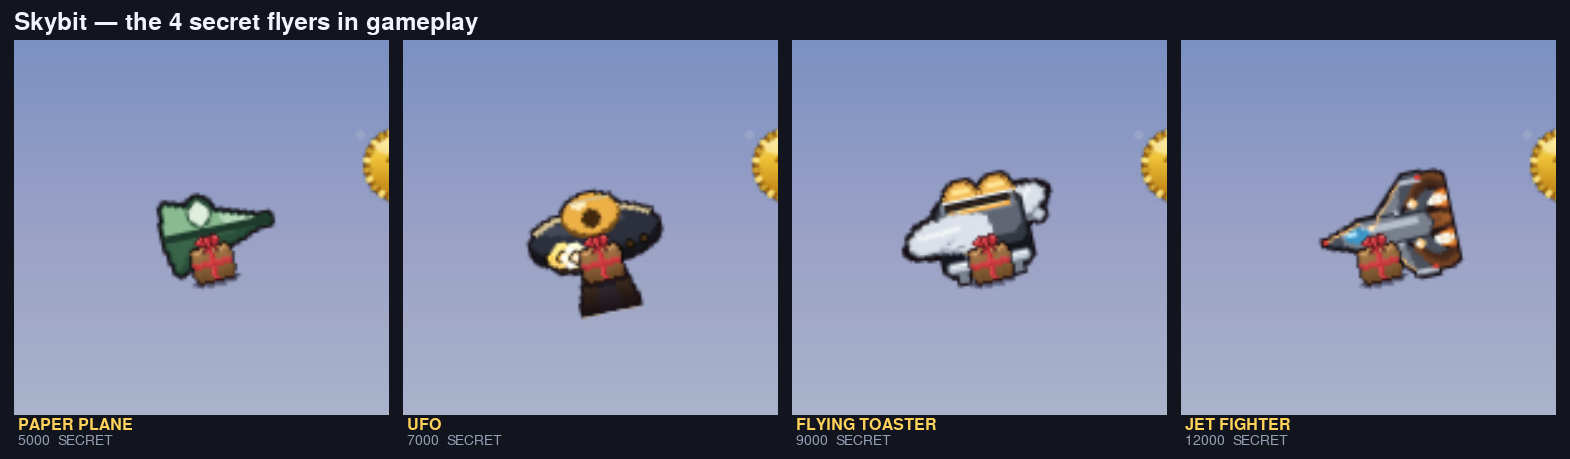
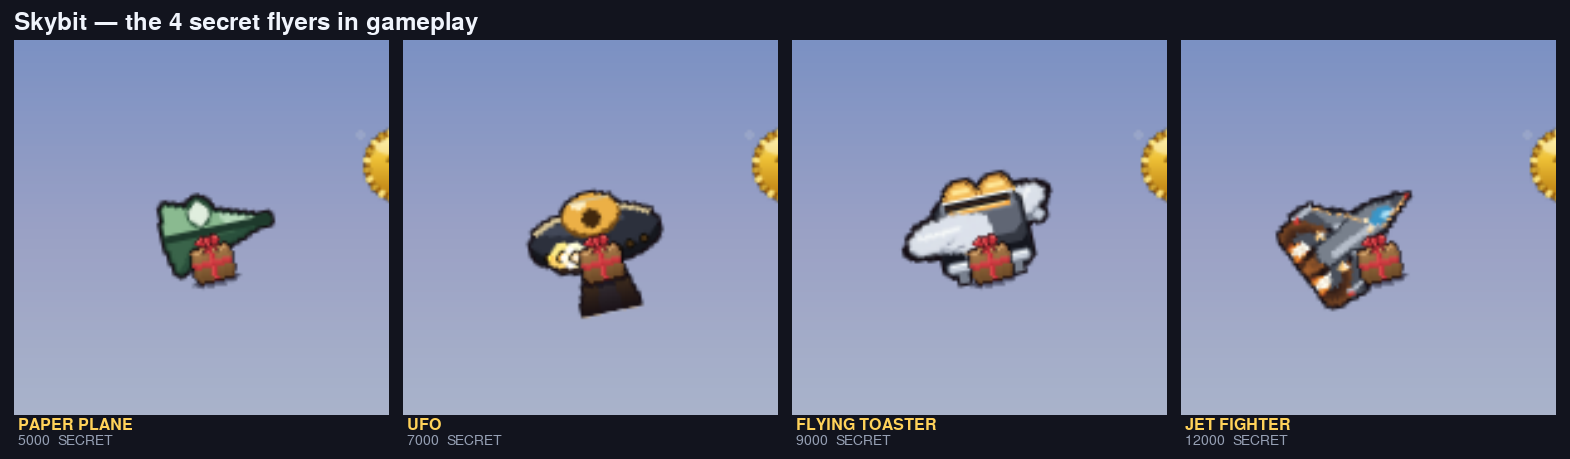
Jet Fighter secret: fly inverted with a nose-high attitude
The planform was drawn nose-left/canopy-up (backwards vs the right-facing bird).
Bake a 205° rotation into build_jet_fighter so it lands nose-forward, belly-up,
nose pitched up — a cocky inverted fighter look. Sync the docs candidate and
regenerate the showcase + secret deliverable figures.

Claude-Session: https://claude.ai/code/session_01VWgQuAkvyxHkg8ghp6aQ5y

Changed region(s): [[0.8115, 0.366, 0.9363, 0.671]]

diff --git a/docs/animals/jet_fighter/jet_fighter_skins.py b/docs/animals/jet_fighter/jet_fighter_skins.py
@@ -266,7 +266,11 @@ def build_jet_fighter(wing_angle_deg):
     for ny in (BCY - _NOZ_DY, BCY + _NOZ_DY):
         pygame.draw.circle(surf, (255, 206, 130), (tail_x, ny), 2)
         pygame.draw.circle(surf, (255, 255, 245), (tail_x - 1, ny), 1)
-    return surf
+
+    # Secret-skin signature: fly INVERTED with the nose pitched up. The planform
+    # is drawn nose-left / canopy-up, so a 205° spin lands it nose-forward (the
+    # bird faces right), belly-up, in a cocky nose-high attitude.
+    return pygame.transform.rotate(surf, 205)
 
 
 get_jet_fighter = _make_prebuilt_skin(build_jet_fighter)

diff --git a/game/animal_jet_fighter.py b/game/animal_jet_fighter.py
@@ -266,7 +266,11 @@ def build_jet_fighter(wing_angle_deg):
     for ny in (BCY - _NOZ_DY, BCY + _NOZ_DY):
         pygame.draw.circle(surf, (255, 206, 130), (tail_x, ny), 2)
         pygame.draw.circle(surf, (255, 255, 245), (tail_x - 1, ny), 1)
-    return surf
+
+    # Secret-skin signature: fly INVERTED with the nose pitched up. The planform
+    # is drawn nose-left / canopy-up, so a 205° spin lands it nose-forward (the
+    # bird faces right), belly-up, in a cocky nose-high attitude.
+    return pygame.transform.rotate(surf, 205)
 
 
 get_jet_fighter = _make_prebuilt_skin(build_jet_fighter)
